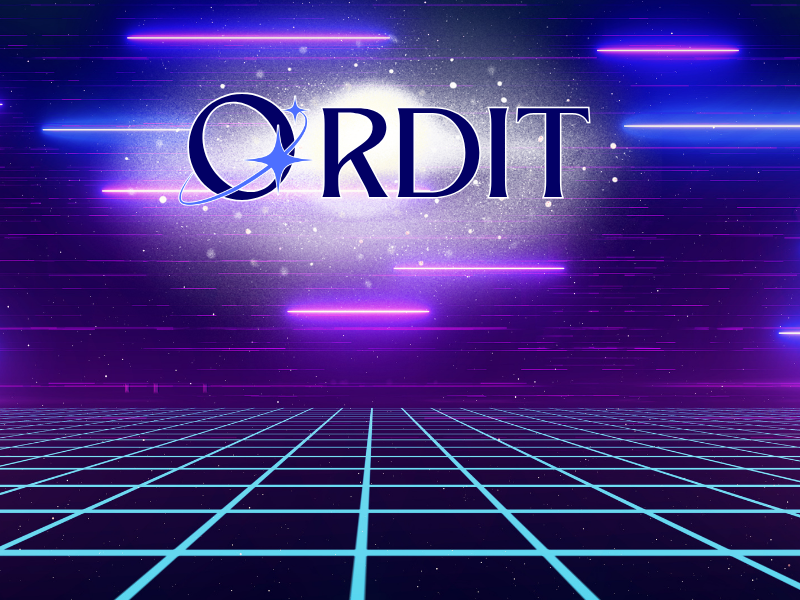
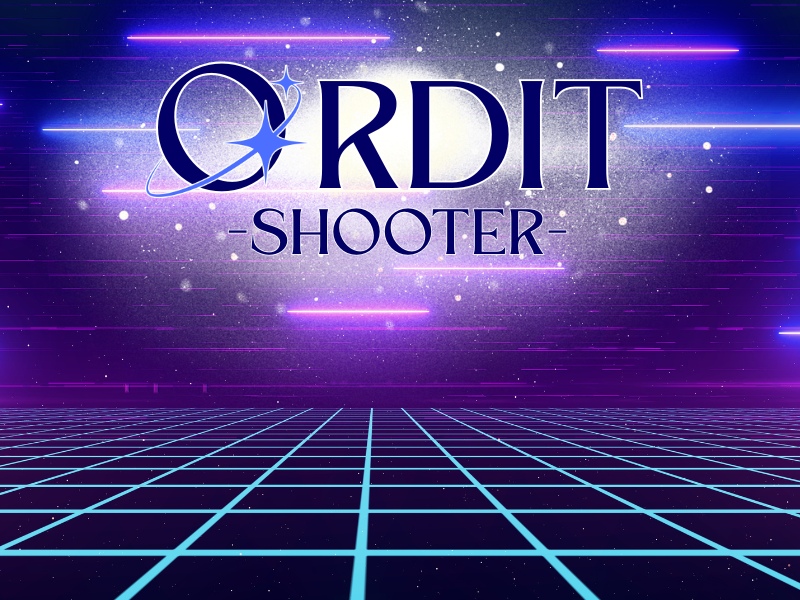
Fixing imports in level.py file Add musics levels

diff --git a/code/level.py b/code/level.py
@@ -1,7 +1,12 @@
 #!/usr/bin/python
 # -*- coding: utf-8 -*-
-import pygame
+import sys
 
+import pygame
+from pygame import Surface, Rect
+from pygame.font import Font
+
+from code.Const import COLOR_WHITE, WIN_HEIGHT
 from code.entity import Entity
 from code.entityFactory import EntityFactory
 
@@ -13,11 +18,31 @@ class Level:
         self.game_mode = game_mode
         self.entity_list: list[Entity] = []
         self.entity_list.extend(EntityFactory.get_entity('Level1Bg'))
+        self.timeout = 20000  # 20 seconds
 
     def run(self):
+        pygame.mixer_music.load(f'./asset/{self.name}.mp3')
+        pygame.mixer_music.play(-1)
+        clock = pygame.time.Clock()
         while True:
+            clock.tick(60)
             for ent in self.entity_list:
-                self.window.blit(source= ent.surf, dest=ent.rect)
+                self.window.blit(source=ent.surf, dest=ent.rect)
                 ent.move()
+            for event in pygame.event.get():
+                if event.type == pygame.QUIT:
+                    pygame.quit()
+                    sys.exit()
+
+            # printed text
+            self.level_text(14, f'{self.name} - Timeout: {self.timeout / 1000 :.1f}s', COLOR_WHITE, (10, 5))
+            self.level_text(14, f'fps: {clock.get_fps() :.0f}', COLOR_WHITE, (10, WIN_HEIGHT - 35))
+            self.level_text(14, f'entidades: {len(self.entity_list)}', COLOR_WHITE, (10, WIN_HEIGHT - 20))
             pygame.display.flip()
-        pass
+            pass
+
+    def level_text(self, text_size: int, text: str, text_color: tuple, text_pos: tuple):
+        text_font: Font = pygame.font.SysFont(name="Lucida Sans Typewriter", size=text_size)
+        text_surf: Surface = text_font.render(text, True, text_color).convert_alpha()
+        text_rect: Rect = text_surf.get_rect(left=text_pos[0], top=text_pos[1])
+        self.window.blit(source=text_surf, dest=text_rect)

diff --git a/code/menu.py b/code/menu.py
@@ -8,7 +8,7 @@ from code.Const import WIN_WIDTH, MENU_OPTION, COLOR_WHITE, COLOR_YELLOW, COLOR_
 class Menu:
     def __init__(self, window):
         self.window = window
-        self.surf = pygame.image.load("./asset/backgroundMenu.png")
+        self.surf = pygame.image.load("./asset/backgroundMenu.png").convert_alpha()
         self.rect = self.surf.get_rect(left=0, top=0)
 
     def run(self, ):
@@ -26,9 +26,9 @@ class Menu:
                     text_size = 70
 
                 if i == menu_option:
-                    self.menu_text(text_size, MENU_OPTION[i], COLOR_BLUE_DARK, ((WIN_WIDTH / 2), 290 + 65 * i), True)
+                    self.menu_text(text_size, MENU_OPTION[i], COLOR_BLUE_DARK, ((WIN_WIDTH / 2), 310 + 62 * i), True)
                 else:
-                    self.menu_text(text_size, MENU_OPTION[i], COLOR_WHITE, ((WIN_WIDTH / 2), 290 + 65 * i))
+                    self.menu_text(text_size, MENU_OPTION[i], COLOR_WHITE, ((WIN_WIDTH / 2), 310 + 62 * i))
 
             pygame.display.flip()
 

diff --git a/code/Const.py b/code/Const.py
@@ -1,11 +1,13 @@
 # C
+
 COLOR_WHITE = (255,255,255)
 COLOR_YELLOW = (255,255,0)
 COLOR_BLUE_DARK = (2, 0, 101)
 
 # E
+
 ENTITY_SPEED = {
-    'Level1Bg0': 0.1,
+    'Level1Bg0': 0,
     'Level1Bg1': 1,
     'Level1Bg2': 5,
 }

diff --git a/code/entity.py b/code/entity.py
@@ -7,7 +7,7 @@ import pygame.image
 class Entity(ABC):
     def __init__(self, name: str, position: tuple):
         self.name = name
-        self.surf = pygame.image.load('./asset/' + name + '.png')
+        self.surf = pygame.image.load('./asset/' + name + '.png').convert_alpha()
         self.rect = self.surf.get_rect(left=position[0], top=position[1])
         self.speed = 0
 